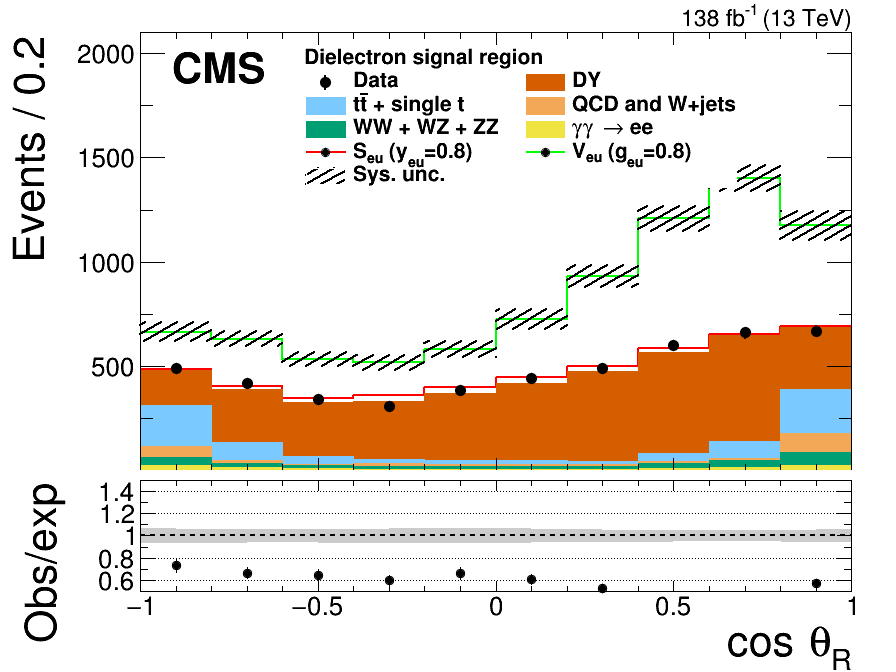
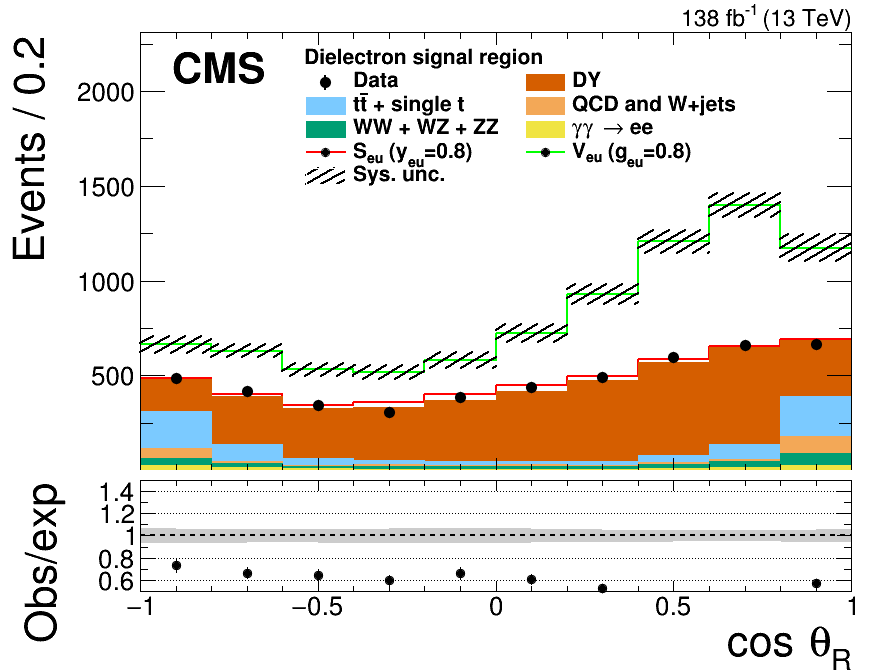
updated hmax

diff --git a/utils/HistMaker.C b/utils/HistMaker.C
@@ -139,7 +139,10 @@ void make_emu_m_cost_pt_rap_hist(TTree *t1, TH1F *h_m, TH1F *h_cost, TH1F *h_pt,
 
 void make_m_cost_pt_xf_hist(TTree *t1, TH1F *h_m, TH1F *h_cost, TH1F *h_pt, TH1F *h_xf, TH1F *h_phi, TH1F *h_rap,
     bool is_data=false, int flag1 = FLAG_MUONS,
-    int year = 2016, Double_t m_low = 150., Double_t m_high = 9999999., bool ss = false, int do_LQ = 0, float yLQ = 0.){
+    int year = 2016, Double_t m_low = 150., Double_t m_high = 9999999., bool ss = false, int do_LQ = 0, float yLQ = 0., float m_LQ = 2000.){
+    
+    printf("do_LQ = %i, yLQ = %.1f, m_LQ = %.1f\n", do_LQ, yLQ, m_LQ);
+    
     h_m->Sumw2();
     h_cost->Sumw2();
     h_pt->Sumw2();
@@ -151,11 +154,15 @@ void make_m_cost_pt_xf_hist(TTree *t1, TH1F *h_m, TH1F *h_cost, TH1F *h_pt, TH1F
     if(flag1 == FLAG_MUONS) tm.do_muons = true;
     else tm.do_electrons = true;
     tm.do_RC = true;
-
+    if (do_LQ > 0) tm.is_gen_level = true;
     tm.btag_mc_eff_idx = 0;
     tm.setup();
     int nEvents=0;
-
+    
+    TH1F *h_m2 =(TH1F *) h_m->Clone("LQint_m");
+    TH1F *h_cost2 =(TH1F *) h_cost->Clone("LQint_cost");
+    TH1F *h_rap2 =(TH1F *) h_rap->Clone("LQint_rap");
+    //printf("tm.is_gen_level = %i\n",tm.is_gen_level);
     for (int i=0; i<tm.nEntries; i++) {
         tm.getEvent(i);
         tm.doCorrections();
@@ -173,14 +180,12 @@ void make_m_cost_pt_xf_hist(TTree *t1, TH1F *h_m, TH1F *h_cost, TH1F *h_pt, TH1F
                 //if(flag1 == FLAG_ELECTRONS && (tm.el2_pt < 20 && tm.el2_eta > 1.8)) tm.evt_weight = 0;
                 if(do_LQ > 0){
 
-                    TH1F *h_m2 =(TH1F *) h_m->Clone("LQint_m");
-                    TH1F *h_cost2 =(TH1F *) h_cost->Clone("LQint_cost");
-                    TH1F *h_rap2 =(TH1F *) h_rap->Clone("LQint_rap");
-
                     int bin_i = find_bin(m_bins, tm.m);
                     float RFfactor = tm.fixRFNorm(bin_i, year);
                     float s = tm.gen_m*tm.gen_m;
-                    if((tm.inc_id1 == 2 && tm.inc_id2 == -2)||(tm.inc_id1 == -2 && tm.inc_id2 == 2)){ // only Seu and Veu atm
+		    //printf("tm.inc_id1 = %i, tm.inc_id2 = %i\n",tm.inc_id1,tm.inc_id2);
+                    
+		    if((tm.inc_id1 == 2 && tm.inc_id2 == -2)||(tm.inc_id1 == -2 && tm.inc_id2 == 2)){ // only Seu and Veu atm
                         set_running_couplings(s,2);
 
                         float LQ_denom = get_LQ_denom(tm.cost_st, s, Q_q, caq, cvq);
@@ -194,13 +199,14 @@ void make_m_cost_pt_xf_hist(TTree *t1, TH1F *h_m, TH1F *h_cost, TH1F *h_pt, TH1F
                             float reweight_LQint_pos = get_LQ_scalar_num(tm.cost_st, s, Q_q, caq, cvq, m_LQ, true, false)/LQ_denom;
 
                             float reweight_LQint_neg = get_LQ_scalar_num(tm.cost_st, s, Q_q, caq, cvq, m_LQ, true, true)/LQ_denom;
-
-                            h_m->Fill(tm.m, pow(yLQ,4) * reweight_LQpure_pos * tm.evt_weight * RFfactor); 
-                            h_m2->Fill(tm.m, pow(yLQ,2) * reweight_LQint_pos * tm.evt_weight * RFfactor); 
-                            h_cost->Fill(tm.cost, pow(yLQ,4) * reweight_LQpure_pos * tm.evt_weight * RFfactor); 
-                            h_cost2->Fill(tm.cost, pow(yLQ,2) * reweight_LQint_pos * tm.evt_weight * RFfactor); 
-                            h_rap->Fill(tm.cm.Rapidity(), pow(yLQ,4) * reweight_LQpure_pos * tm.evt_weight * RFfactor); 
-                            h_rap2->Fill(tm.cm.Rapidity(), pow(yLQ,2) * reweight_LQint_pos * tm.evt_weight * RFfactor); 
+				
+			    //printf("reweight_LQpure_pos = %.3f, reweight_LQint_pos = %.3f, tm.evt_weight = %.3f, RFfactor = %.3f\n",reweight_LQpure_pos,reweight_LQint_pos,tm.evt_weight,RFfactor);
+                            h_m->Fill(tm.m, reweight_LQpure_pos * tm.evt_weight * RFfactor); 
+                            h_m2->Fill(tm.m, reweight_LQint_pos * tm.evt_weight * RFfactor); 
+                            h_cost->Fill(tm.cost, reweight_LQpure_pos * tm.evt_weight * RFfactor); 
+                            h_cost2->Fill(tm.cost, reweight_LQint_pos * tm.evt_weight * RFfactor); 
+                            h_rap->Fill(tm.cm.Rapidity(), reweight_LQpure_pos * tm.evt_weight * RFfactor); 
+                            h_rap2->Fill(tm.cm.Rapidity(), reweight_LQint_pos * tm.evt_weight * RFfactor); 
                             
                         }
                 // vector
@@ -215,20 +221,17 @@ void make_m_cost_pt_xf_hist(TTree *t1, TH1F *h_m, TH1F *h_cost, TH1F *h_pt, TH1F
 
                             
                         //vector
-                            h_m->Fill(tm.m, pow(yLQ,4) * reweight_LQpure_pos_vec * tm.evt_weight * RFfactor); 
-                            h_m2->Fill(tm.m, pow(yLQ,2) * reweight_LQint_pos_vec * tm.evt_weight * RFfactor); 
-                            h_cost->Fill(tm.cost, pow(yLQ,4) * reweight_LQpure_pos_vec * tm.evt_weight * RFfactor); 
-                            h_cost2->Fill(tm.cost, pow(yLQ,2) * reweight_LQint_pos_vec * tm.evt_weight * RFfactor); 
-                            h_rap->Fill(tm.cm.Rapidity(), pow(yLQ,4) * reweight_LQpure_pos_vec * tm.evt_weight * RFfactor); 
-                            h_rap2->Fill(tm.cm.Rapidity(), pow(yLQ,2) * reweight_LQint_pos_vec * tm.evt_weight * RFfactor); 
+                            h_m->Fill(tm.m, reweight_LQpure_pos_vec * tm.evt_weight * RFfactor); 
+                            h_m2->Fill(tm.m, reweight_LQint_pos_vec * tm.evt_weight * RFfactor); 
+                            h_cost->Fill(tm.cost, reweight_LQpure_pos_vec * tm.evt_weight * RFfactor); 
+                            h_cost2->Fill(tm.cost, reweight_LQint_pos_vec * tm.evt_weight * RFfactor); 
+                            h_rap->Fill(tm.cm.Rapidity(), reweight_LQpure_pos_vec * tm.evt_weight * RFfactor); 
+                            h_rap2->Fill(tm.cm.Rapidity(), reweight_LQint_pos_vec * tm.evt_weight * RFfactor); 
                         }
                     }
-                    h_m->Add(h_m2);
-                    h_rap->Add(h_rap2);
-                    h_cost->Add(h_cost2);
 
                 }
-
+		if(do_LQ==0){
                 h_m->Fill(tm.m,tm.evt_weight);
                 h_pt->Fill(tm.pt,tm.evt_weight);
                 h_xf->Fill(tm.xF, tm.evt_weight);
@@ -243,12 +246,19 @@ void make_m_cost_pt_xf_hist(TTree *t1, TH1F *h_m, TH1F *h_cost, TH1F *h_pt, TH1F
                 else h_cost->Fill(tm.cost, tm.evt_weight);
             }
 
-
+	}
             
         }
         printf("Selected %i events \n", nEvents);
-
-
+	if(do_LQ > 0){
+		    h_m->Print("range");
+                    h_m->Scale(pow(yLQ,4)); h_m2->Scale(pow(yLQ,2));
+                    h_cost->Scale(pow(yLQ,4)); h_cost2->Scale(pow(yLQ,2));
+                    h_rap->Scale(pow(yLQ,4)); h_rap2->Scale(pow(yLQ,2));
+                    h_m->Add(h_m2);
+                    h_rap->Add(h_rap2);
+                    h_cost->Add(h_cost2);
+	}
         tm.finish();
     }
 

diff --git a/plots/ElEl/draw_cmp_from_saved.C b/plots/ElEl/draw_cmp_from_saved.C
@@ -337,8 +337,8 @@ void draw_cmp_from_saved(){
 
 
 
-    float x_size = 0.6;
-    float y_size = 0.4;
+    float x_size = 0.5;
+    float y_size = 0.3;
 
 
     //TLegend *leg1 = new TLegend(x_center - x_size/2, y_center - y_size/2, x_center + x_size/2, y_center + y_size/2);
@@ -355,37 +355,37 @@ void draw_cmp_from_saved(){
     leg2->AddEntry(data_m, "Data", "pe");
     leg3->AddEntry(data_m, "Data", "pe");
 
-    leg1->AddEntry(dy_m, "DY signal", "f");
+    leg1->AddEntry(dy_m, "DY ", "f");
     leg1->AddEntry(top_m, "t#bar{t} + single t", "f");
     leg1->AddEntry(QCD_m, "QCD and W+jets", "f");
     leg1->AddEntry(diboson_m, "WW + WZ + ZZ  ", "f");
     //leg1->AddEntry(gg_m, "#gamma#gamma #rightarrow #bf{ee}", "f");
     leg1->AddEntry(gg_m, "#gamma#gamma #rightarrow ee", "f");
-    leg1->AddEntry(LQu_m, "S_{eu} (y_{eu}=2.0)");
-    leg1->AddEntry(LQu_vec_m, "V_{eu} (g_{eu}=2.0)");
-    leg1->SetTextSize(0.058);
+    leg1->AddEntry(LQu_m, "S_{eu} (y_{eu}=0.8)");
+    leg1->AddEntry(LQu_vec_m, "V_{eu} (g_{eu}=0.8)");
+    leg1->SetTextSize(0.048);
 
 
-    leg2->AddEntry(dy_m, "DY signal", "f");
+    leg2->AddEntry(dy_m, "DY ", "f");
     leg2->AddEntry(top_m, "t#bar{t} + single t", "f");
     leg2->AddEntry(QCD_m, "QCD and W+jets", "f");
     leg2->AddEntry(diboson_m, "WW + WZ + ZZ  ", "f");
     //leg2->AddEntry(gg_m, "#gamma#gamma #rightarrow #bf{ee}", "f");
     leg2->AddEntry(gg_m, "#gamma#gamma #rightarrow ee", "f");
-    leg2->AddEntry(LQu_m, "S_{eu} (y_{eu}=2.0)");
-    leg2->AddEntry(LQu_vec_m, "V_{eu} (g_{eu}=2.0)");
-    leg2->SetTextSize(0.058);
+    leg2->AddEntry(LQu_m, "S_{eu} (y_{eu}=0.8)");
+    leg2->AddEntry(LQu_vec_m, "V_{eu} (g_{eu}=0.8)");
+    leg2->SetTextSize(0.048);
 
 
-    leg3->AddEntry(dy_m, "DY signal", "f");
+    leg3->AddEntry(dy_m, "DY ", "f");
     leg3->AddEntry(top_m, "t#bar{t} + single t", "f");
     leg3->AddEntry(QCD_m, "QCD and W+jets", "f");
     leg3->AddEntry(diboson_m, "WW + WZ + ZZ  ", "f");
     //leg3->AddEntry(gg_m, "#gamma#gamma #rightarrow #bf{ee}", "f");
     leg3->AddEntry(gg_m, "#gamma#gamma #rightarrow ee", "f");
-    leg3->AddEntry(LQu_m, "S_{eu} (y_{eu}=2.0)");
-    leg3->AddEntry(LQu_vec_m, "V_{eu} (g_{eu}=2.0)");
-    leg3->SetTextSize(0.058);
+    leg3->AddEntry(LQu_m, "S_{eu} (y_{eu}=0.8)");
+    leg3->AddEntry(LQu_vec_m, "V_{eu} (g_{eu}=0.8)");
+    leg3->SetTextSize(0.048);
 
     leg1->SetX1NDC(0.7);
     leg1->SetX2NDC(0.7);
@@ -410,7 +410,7 @@ void draw_cmp_from_saved(){
 
 
     float x_start_m = 0.34;
-    float y_start_m = 0.5;
+    float y_start_m = 0.6;
     leg1->SetX1(x_start_m);
     leg1->SetX2(x_start_m+x_size);
     leg1->SetY1(y_start_m);
@@ -421,8 +421,8 @@ void draw_cmp_from_saved(){
     float hmax = 1000;
     //if(year == 2016)
     //    hmax *= 0.625;
-    if(year == 2017)
-        hmax *= 0.75;
+    //if(year == 2017)
+    //    hmax *= 0.75;
 
     float hmin = 0.1;
     sprintf(y_ax_label, "Events / %.0f GeV", mbin_base);
@@ -437,7 +437,7 @@ void draw_cmp_from_saved(){
     //float x_start_c = 0.57 - x_size/2;
     //float y_start_c = 0.14;
     float x_start_c = 0.34;
-    float y_start_c = 0.5;
+    float y_start_c = 0.6;
     leg2->SetX1(x_start_c);
     leg2->SetX2(x_start_c+x_size);
     leg2->SetY1(y_start_c);
@@ -447,12 +447,12 @@ void draw_cmp_from_saved(){
     logy = false;
     int n_cost_bins = 10;
     float cost_bin_size = 2./n_cost_bins;
-    hmax = 1000;
+    hmax = 2200;
 
     //if(year == 2016)
     //    hmax *= 0.625;
-    if(year == 2017)
-        hmax *= 0.75;
+    //if(year == 2017)
+    //    hmax *= 0.75;
 
 
 
@@ -474,12 +474,12 @@ void draw_cmp_from_saved(){
     int n_rap_bins = 20;
     float rap_bin_size = 5. / n_rap_bins;
 
-    hmax = 1000;
+    hmax = 1500;
 
     //if(year == 2016)
     //    hmax *= 0.625;
-    if(year == 2017)
-        hmax *= 0.75;
+    //if(year == 2017)
+    //    hmax *= 0.75;
 
 
 

diff --git a/utils/PlotUtils.C b/utils/PlotUtils.C
@@ -47,6 +47,7 @@ void binwidth_normalize(TH1 *h, float base = 1.){
         float content = h->GetBinContent(i);
         float error = h->GetBinError(i);
         float width = h->GetBinWidth(i);
+	printf("i = %i, bin content = %i\n", i, content);
         h->SetBinContent(i, base*content/width);
         h->SetBinError(i, base*error/width);
     }

diff --git a/plots/ElEl/save_hists.C b/plots/ElEl/save_hists.C
@@ -44,7 +44,7 @@ void save_hists(){
     init(year);
     init_indv_bkgs(year);
 
-    float yLQ = 20.0;
+    float yLQ = 0.8;
     float m_LQ = 2000.;
     int n_pt_bins1 = 7;
     Float_t pt_bins1[] = {0., 10., 20., 30., 50., 70., 100., 300., 700. };
